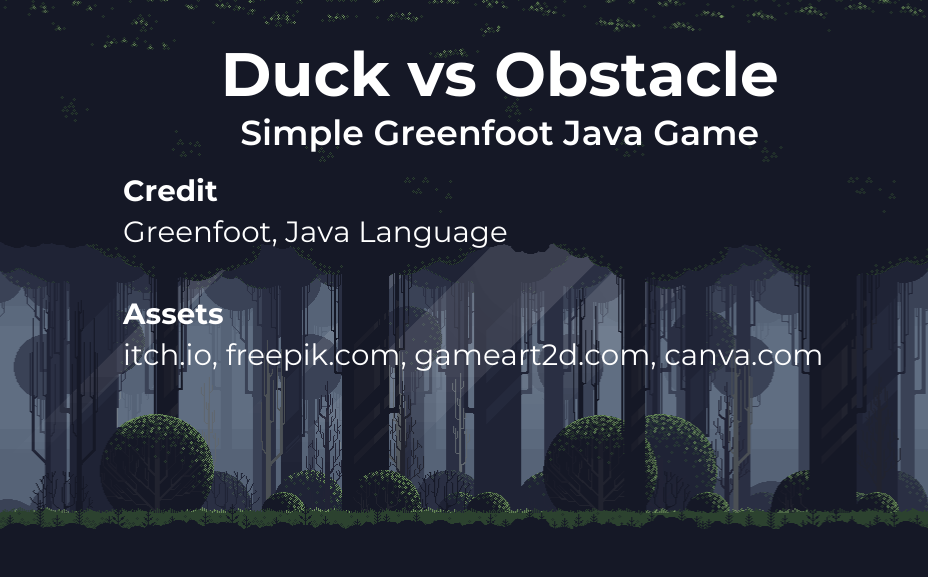
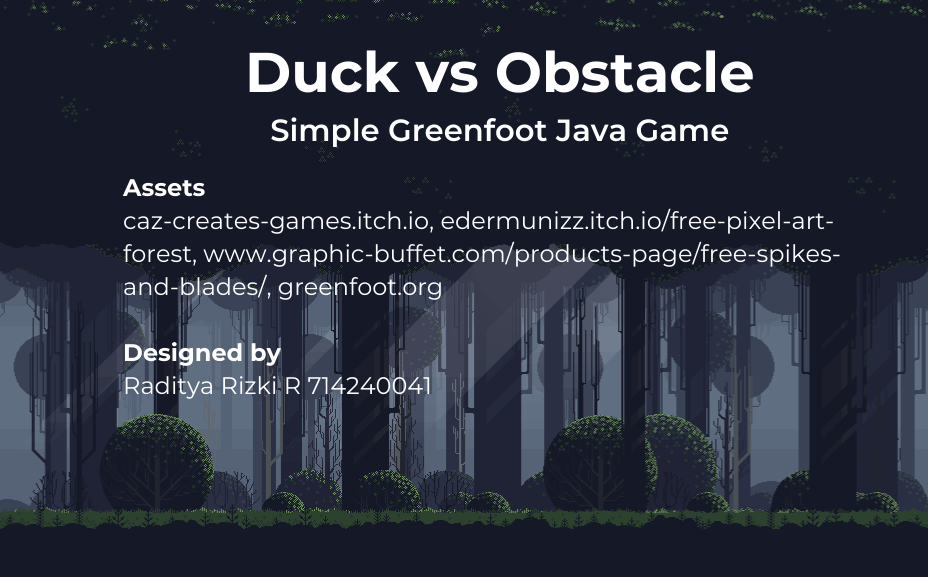
update credit

Changed region(s): [[0.125, 0.312, 0.9062, 0.5615], [0.2188, 0.0624, 0.8438, 0.2496], [0.125, 0.5927, 0.875, 0.6863]]

diff --git a/Credit.java b/Credit.java
@@ -17,6 +17,14 @@ public class Credit extends World
     {    
         // Create a new world with 600x400 cells with a cell size of 1x1 pixels.
         super(1000, 600, 1);
-        addObject(new HomeButton(), getWidth() / 2, 700);
+        addObject(new HomeButton(), getWidth() / 2, 500);
+        prepare();
+    }
+    /**
+     * Prepare the world for the start of the program.
+     * That is: create the initial objects and add them to the world.
+     */
+    private void prepare()
+    {
     }
 }
